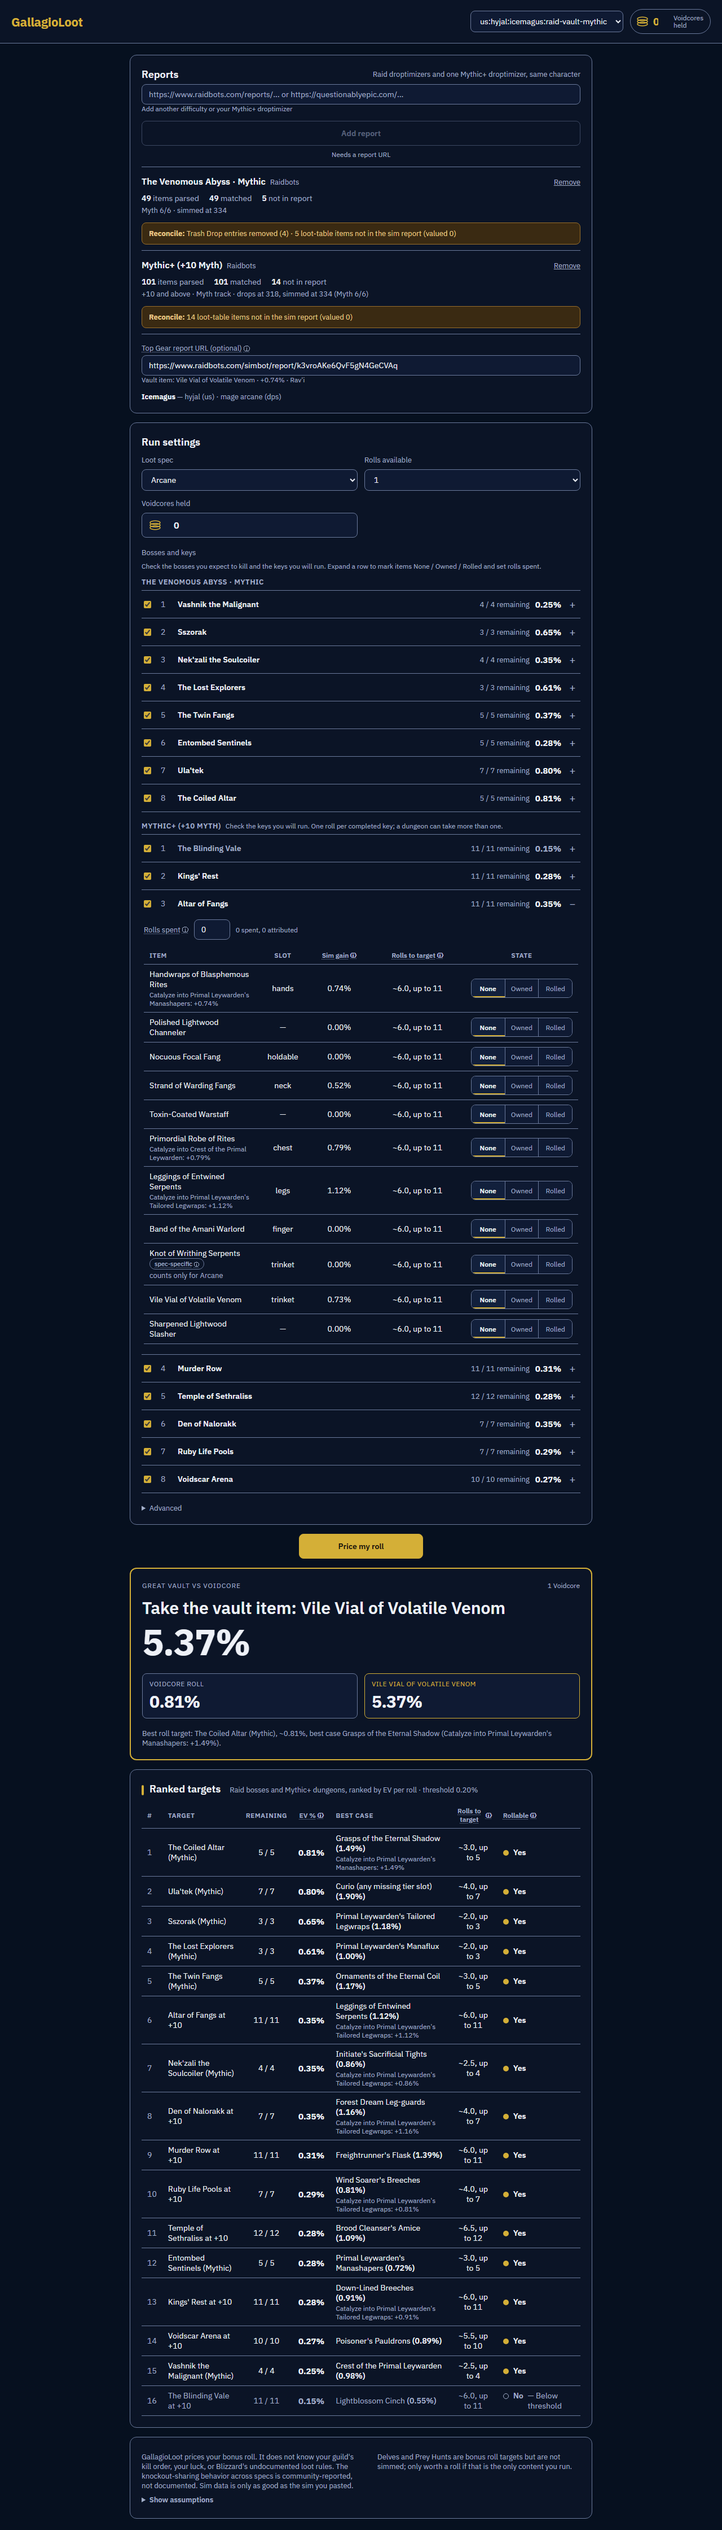
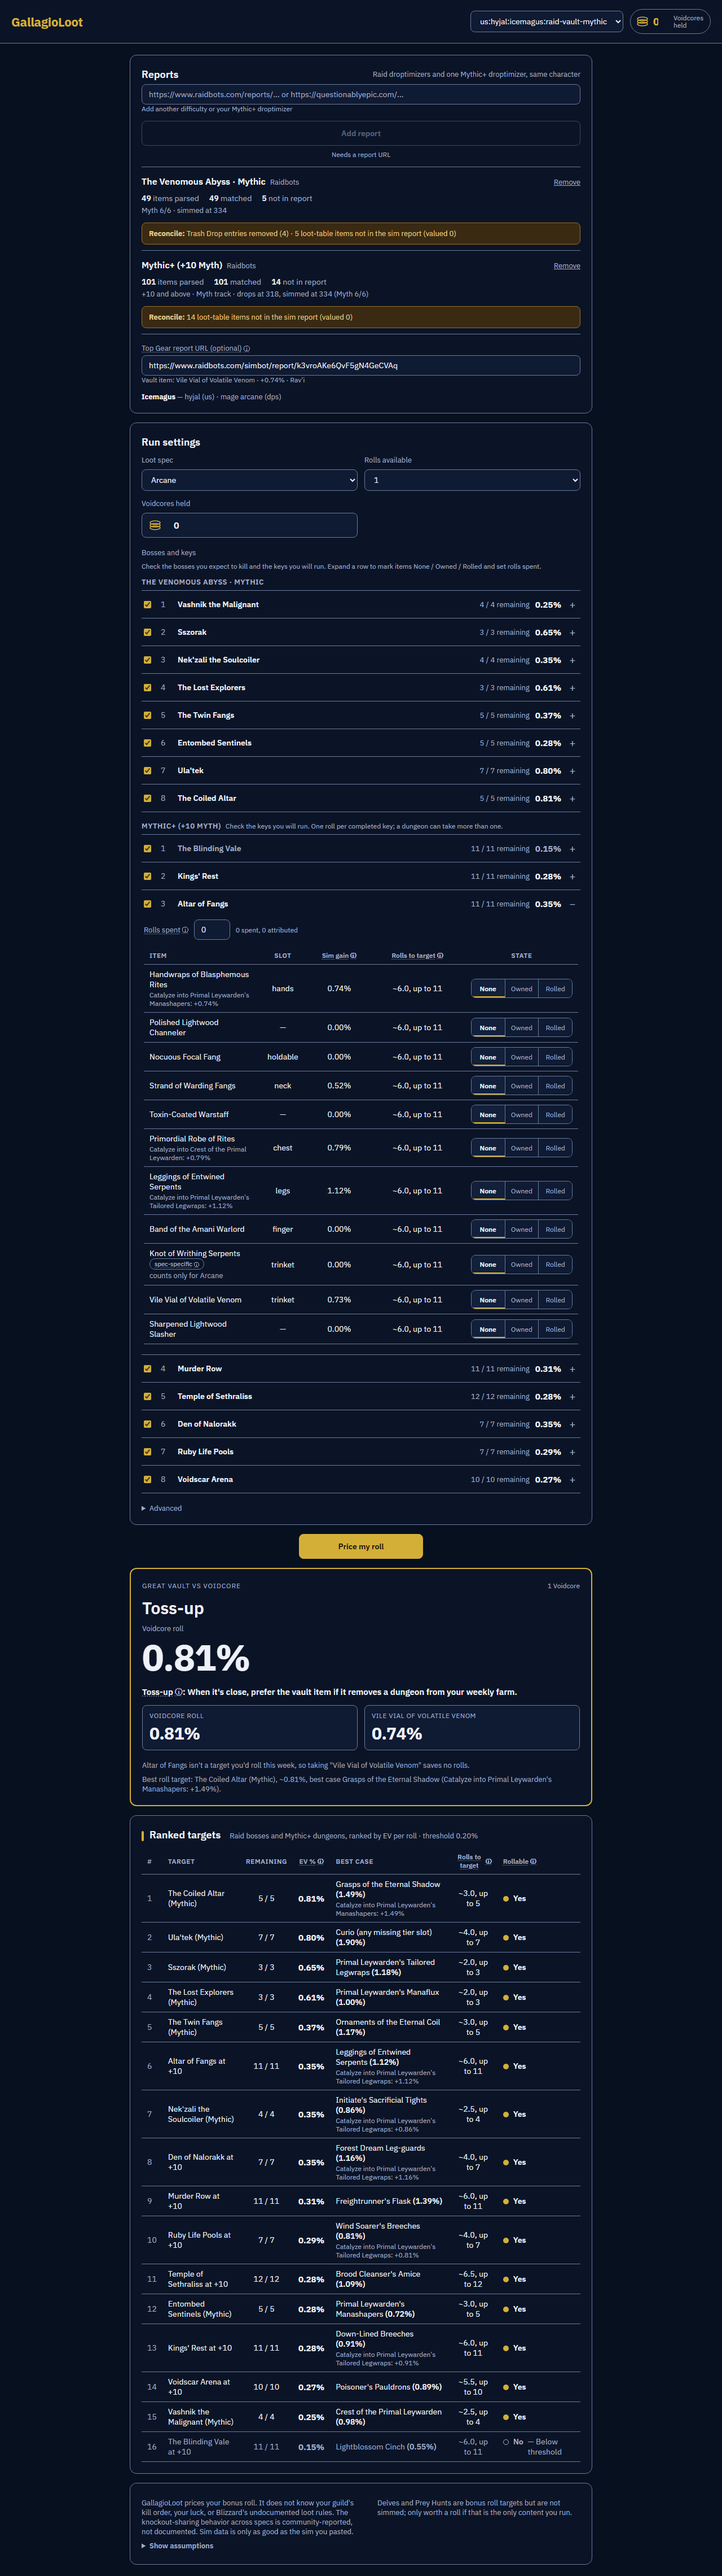
compareVault: credit saved rolls only when the vault item's target is allocated
The vault item's target (the pool it was found in) must be among the targets
recommend() spends this week's rolls on. Otherwise savedRolls = 0, the comparison
is the plain vault gain vs the Voidcore path, and VaultDecision.savedRollsNote
says why (also shown on the card). With the M+ report loaded, Altar of Fangs
ranks 6th, so Vile Vial no longer gets a 5.70-roll credit: 1 roll is a toss-up
(0.81% vs 0.74%), 2 rolls is Voidcore. Allocated targets keep the old formula.

Refreshes the pinned live-fixtures tests and the priced design screenshots.

diff --git a/test/multiReport.test.ts b/test/multiReport.test.ts
@@ -212,16 +212,34 @@ describe('report set validation', () => {
   })
 })
 
-describe('compareVault across reports', () => {
-  it('finds the vault item in a dungeon pool and takes the alternative from the best OTHER target', () => {
+describe('compareVault across reports: saved-rolls credit only for allocated targets', () => {
+  const NOTE = `Altar of Fangs isn't a target you'd roll this week, so taking "Vile Vial" saves no rolls.`
+
+  it("credits no saved rolls when the vault item's dungeon isn't a target you'd roll, and says why", () => {
     const raid = raidReport([item(2883, 'The Coiled Altar', 800)])
     const mplus = mplusReport([item(1322, 'Altar of Fangs', 740, { itemId: 273796, name: 'Vile Vial' }), item(1322, 'Altar of Fangs', 100, { itemId: 5 })])
     const evals = evalsFor([raid, mplus], SETTINGS)
     const rec = recommend(evals, SETTINGS, [raid, mplus])
+    expect(rec.allocations.map((a) => a.encounterName)).toEqual(['The Coiled Altar'])
     const vd = compareVault({ vaultItem: { name: 'Vile Vial', gainPct: 0.74, itemId: 273796 }, bossEvals: evals, recommendation: rec, settings: SETTINGS, report: raid })
-    expect(vd.savedRolls).toBeGreaterThan(0)
+    expect(vd.savedRolls).toBe(0)
+    expect(vd.vaultItemGainPct).toBe(0.74)
+    expect(vd.savedRollsNote).toBe(NOTE)
+    expect(vd.notes).toContain(NOTE)
+  })
+
+  it("keeps the existing credit formula when the vault item's dungeon IS the top allocated target", () => {
+    const raid = raidReport([item(2883, 'The Coiled Altar', 800)])
+    const mplus = mplusReport([item(1322, 'Altar of Fangs', 900, { itemId: 273796, name: 'Vile Vial' }), item(1322, 'Altar of Fangs', 900, { itemId: 5 })])
+    const evals = evalsFor([raid, mplus], SETTINGS)
+    const rec = recommend(evals, SETTINGS, [raid, mplus])
+    expect(rec.allocations.map((a) => a.encounterName)).toEqual(['Altar of Fangs'])
+    const vd = compareVault({ vaultItem: { name: 'Vile Vial', gainPct: 0.74, itemId: 273796 }, bossEvals: evals, recommendation: rec, settings: SETTINGS, report: raid })
+    // Two equal pool entries, hunt never abandoned: expected 1.5 rolls to land the Vial, each worth the best OTHER target (Coiled Altar, 0.8%).
+    expect(vd.savedRolls).toBeCloseTo(1.5, 10)
+    expect(vd.savedRollsNote).toBeUndefined()
     expect(vd.notes[0]).toMatch(/Altar of Fangs's roll pool/)
-    expect(vd.vaultItemGainPct).toBeCloseTo(0.74 + vd.savedRolls * 0.8)
+    expect(vd.vaultItemGainPct).toBeCloseTo(0.74 + 1.5 * 0.8, 10)
   })
 })
 
@@ -262,19 +280,28 @@ describe('live fixtures: raid 6PTZ7 + M+ a8URT + Top Gear vault item k3vro', () 
     ])
   })
 
-  it('1 roll: Coiled Altar, a toss-up with Ula\'tek; the Top Gear vault item now matches the Altar of Fangs pool', () => {
+  const vaultItem = { name: 'Vile Vial of Volatile Venom', gainPct: 0.7439364712473122, itemId: 273796, encounterId: 2878 }
+
+  it("1 roll: Coiled Altar, a toss-up with Ula'tek; Altar of Fangs isn't allocated, so the Vial saves no rolls (Voidcore 0.81% vs vault 0.74% = toss-up, as raid-only)", () => {
     const rec = recommend(evals, settings, [raid, mplus])
     expect(rec.allocations.map((a) => a.encounterName)).toEqual(['The Coiled Altar'])
     expect(rec.tossUp?.bosses).toEqual(['The Coiled Altar', "Ula'tek"])
-    const vd = compareVault({
-      vaultItem: { name: 'Vile Vial of Volatile Venom', gainPct: 0.7439364712473122, itemId: 273796, encounterId: 2878 },
-      bossEvals: evals,
-      recommendation: rec,
-      settings,
-      report: raid,
-    })
-    expect(vd.savedRolls).toBeCloseTo(5.7026, 3)
-    expect(vd.verdict).toBe('vault')
-    expect(vd.vaultItemGainPct).toBeCloseTo(0.7439 + 5.7026 * 0.8117, 2)
+    const vd = compareVault({ vaultItem, bossEvals: evals, recommendation: rec, settings, report: raid })
+    expect(vd.savedRolls).toBe(0)
+    expect(vd.savedRollsNote).toBe(`Altar of Fangs isn't a target you'd roll this week, so taking "Vile Vial of Volatile Venom" saves no rolls.`)
+    expect(vd.voidcoreGainPct).toBeCloseTo(0.8117, 3)
+    expect(vd.vaultItemGainPct).toBeCloseTo(0.7439, 4)
+    expect(vd.verdict).toBe('toss-up')
+  })
+
+  it("2 rolls: Coiled Altar + Ula'tek, still no saved rolls for the Vial -> Voidcore (1.61% vs 0.74%)", () => {
+    const twoRolls: Settings = { ...settings, rollsAvailable: 2 }
+    const rec = recommend(evals, twoRolls, [raid, mplus])
+    expect(rec.allocations.map((a) => a.encounterName)).toEqual(['The Coiled Altar', "Ula'tek"])
+    const vd = compareVault({ vaultItem, bossEvals: evals, recommendation: rec, settings: twoRolls, report: raid })
+    expect(vd.savedRolls).toBe(0)
+    expect(vd.voidcoreGainPct).toBeCloseTo(1.6098, 3)
+    expect(vd.vaultItemGainPct).toBeCloseTo(0.7439, 4)
+    expect(vd.verdict).toBe('voidcore')
   })
 })

diff --git a/test/vault.test.ts b/test/vault.test.ts
@@ -137,9 +137,17 @@ function makeReport(overrides: Partial<NormalizedReport> = {}): NormalizedReport
   }
 }
 
-function makeRecommendation(totalExpectedGainPct: number): Recommendation {
+/** `allocated`: the boss evals `recommend()` would spend this week's rolls on (compareVault only credits saved rolls for those). */
+function makeRecommendation(totalExpectedGainPct: number, allocated: BossEval[] = []): Recommendation {
   return {
-    allocations: [],
+    allocations: allocated.map((b) => ({
+      encounterId: b.encounterId,
+      encounterName: b.encounterName,
+      targetKey: b.targetKey,
+      rolls: 1,
+      expectedGain: b.ev,
+      expectedGainPct: b.evPct,
+    })),
     totalExpectedGainPct,
     fallback: null,
     assumptions: [],
@@ -203,7 +211,7 @@ describe('compareVault', () => {
     expect(decision.explanation).toContain('Thalassian Tokens of Merit')
   })
 
-  it('computes savedRolls via rollsToTarget when the vault item matches a PoolEntry by itemId, capped at the pool size', () => {
+  it('computes savedRolls via rollsToTarget when the vault item matches a PoolEntry by itemId in an allocated target, capped at the pool size', () => {
     const targetEntry = makeEntry('item:999', 4000, { itemIds: [999] })
     const otherEntry = makeEntry('item:1', 1000, { itemIds: [1] })
     const vaultBoss = makeBoss(2888, "Nek'zali the Soulcoiler", [targetEntry, otherEntry], 0.2)
@@ -212,7 +220,7 @@ describe('compareVault', () => {
     const decision = compareVault({
       vaultItem: { name: 'Target Item', gainPct: 3.0, itemId: 999 },
       bossEvals: [vaultBoss, altBoss],
-      recommendation: makeRecommendation(6.0),
+      recommendation: makeRecommendation(6.0, [vaultBoss]),
       settings: SETTINGS,
       report: makeReport(),
     })
@@ -223,6 +231,26 @@ describe('compareVault', () => {
     expect(decision.savedRolls).toBeCloseTo(expectedSavedRolls, 10)
     // altRollEvPct excludes the vault item's own boss (2888) -- picks 2887's evPct (6%).
     expect(decision.vaultItemGainPct).toBeCloseTo(3.0 + expectedSavedRolls * 6.0, 10)
+  })
+
+  it("credits no saved rolls when the vault item's target isn't one the recommendation allocates, and says why", () => {
+    const targetEntry = makeEntry('item:999', 4000, { itemIds: [999] })
+    const otherEntry = makeEntry('item:1', 1000, { itemIds: [1] })
+    const vaultBoss = makeBoss(2888, "Nek'zali the Soulcoiler", [targetEntry, otherEntry], 0.2)
+    const altBoss = makeBoss(2887, 'The Twin Fangs', [makeEntry('item:2', 6000, { itemIds: [2] })], 0.2)
+
+    const decision = compareVault({
+      vaultItem: { name: 'Target Item', gainPct: 3.0, itemId: 999 },
+      bossEvals: [vaultBoss, altBoss],
+      recommendation: makeRecommendation(6.0, [altBoss]),
+      settings: SETTINGS,
+      report: makeReport(),
+    })
+
+    expect(decision.savedRolls).toBe(0)
+    expect(decision.vaultItemGainPct).toBe(3.0)
+    expect(decision.savedRollsNote).toBe(`Nek'zali the Soulcoiler isn't a target you'd roll this week, so taking "Target Item" saves no rolls.`)
+    expect(decision.notes).toContain(decision.savedRollsNote)
   })
 
   it('warns and assumes 0 saved rolls when the vault item pool cannot be identified', () => {

diff --git a/src/core/vault.ts b/src/core/vault.ts
@@ -97,6 +97,11 @@ function findVaultPool(vaultItem: VaultItemInput, bossEvals: BossEval[]): { boss
   return null
 }
 
+/** Why a vault item credits no saved rolls when its loot source isn't one of this week's allocated roll targets. */
+export function noSavedRollsNote(itemName: string, targetName: string): string {
+  return `${targetName} isn't a target you'd roll this week, so taking "${itemName}" saves no rolls.`
+}
+
 /**
  * Compares the Great Vault's two options for the week: take a specific vault item
  * outright, or take the Nebulous Voidcore and spend `settings.rollsAvailable` bonus
@@ -104,6 +109,11 @@ function findVaultPool(vaultItem: VaultItemInput, bossEvals: BossEval[]): { boss
  * difficulties + Mythic+): the vault item is matched against every target's pool, and the
  * alternative roll is the best OTHER target across all of them. `report` only supplies a
  * fallback baseline for evals built without one.
+ *
+ * The saved-rolls credit only applies when the vault item's target is among the targets
+ * `recommendation` allocates rolls to this week: you can't save rolls you would never have
+ * spent hunting there. Otherwise savedRolls is 0 and the comparison is the plain vault item
+ * gain against the Voidcore path (`savedRollsNote` says why).
  */
 export function compareVault(input: {
   vaultItem: VaultItemInput | null
@@ -135,10 +145,17 @@ export function compareVault(input: {
   // OTHER boss (altRollEvPct below already excludes X's own boss, so X's post-vault dud state
   // doesn't feed back into this figure).
   let savedRolls = 0
+  let savedRollsNote: string | undefined
   if (found) {
-    const remainingPool = found.boss.pool.filter((p) => !p.knockedOut)
-    const { expectedTruncated } = rollsToTarget(remainingPool, found.target.key, thresholdValue)
-    savedRolls = Math.min(expectedTruncated, remainingPool.length)
+    const allocated = recommendation.allocations.some((a) => evalKey(a) === evalKey(found.boss))
+    if (allocated) {
+      const remainingPool = found.boss.pool.filter((p) => !p.knockedOut)
+      const { expectedTruncated } = rollsToTarget(remainingPool, found.target.key, thresholdValue)
+      savedRolls = Math.min(expectedTruncated, remainingPool.length)
+    } else {
+      savedRollsNote = noSavedRollsNote(vaultItem!.name, found.boss.encounterName)
+      notes.push(savedRollsNote)
+    }
     notes.push(`Taking "${vaultItem!.name}" leaves it in ${found.boss.encounterName}'s roll pool as a value-0 dud (roll-only knockout).`)
   }
 
@@ -177,7 +194,7 @@ export function compareVault(input: {
     }
   }
 
-  return { voidcoreGainPct, vaultItemGainPct, savedRolls, verdict, explanation, notes }
+  return { voidcoreGainPct, vaultItemGainPct, savedRolls, savedRollsNote, verdict, explanation, notes }
 }
 
 export type TopGearVaultItem = VaultItemInput & {

diff --git a/web/test/cardData.targets.test.ts b/web/test/cardData.targets.test.ts
@@ -71,6 +71,17 @@ describe('card target phrasing', () => {
     expect(card.headline).toBe('Take the Voidcore. Run Altar of Fangs at +10 and roll.')
   })
 
+  it('carries the no-saved-rolls explanation through to vaultCompare', () => {
+    const note = `Altar of Fangs isn't a target you'd roll this week, so taking "Vial" saves no rolls.`
+    const card = buildCardData({
+      recommendation: rec({ allocations: [{ encounterId: 2883, encounterName: 'The Coiled Altar', targetKey: 'raid-vault-mythic:2883', kind: 'raid', difficultyLabel: 'Mythic', rolls: 1, expectedGain: 812, expectedGainPct: 0.812 }] }),
+      bossEvals: [makeEval({})],
+      vaultDecision: { voidcoreGainPct: 0.81, vaultItemGainPct: 0.74, savedRolls: 0, savedRollsNote: note, verdict: 'toss-up', explanation: '', notes: [note] },
+      vaultItemName: 'Vial',
+    })
+    expect(card.vaultCompare?.savedRollsNote).toBe(note)
+  })
+
   it('toss-up sides resolve by target key: the same boss on two difficulties stays distinguishable', () => {
     const mythic = makeEval({})
     const heroic = makeEval({ targetKey: 'raid-vault-heroic:2883', difficultyLabel: 'Heroic', evPct: 0.8 })

diff --git a/web/src/lib/cardData.ts b/web/src/lib/cardData.ts
@@ -56,7 +56,7 @@ export type CardData = {
    * compare unlike things, so it's omitted there.
    */
   secondBest?: { name: string; pct: number }
-  vaultCompare?: { voidcorePct: number; vaultPct: number; vaultItemName: string }
+  vaultCompare?: { voidcorePct: number; vaultPct: number; vaultItemName: string; savedRollsNote?: string }
   tossUp: boolean
   tossUpNote?: string
   message?: string
@@ -182,6 +182,7 @@ export function buildCardData(params: {
     voidcorePct: vaultDecision.voidcoreGainPct,
     vaultPct: vaultDecision.vaultItemGainPct,
     vaultItemName: vaultItemName ?? 'the vault item',
+    savedRollsNote: vaultDecision.savedRollsNote,
   }
 
   if (vaultDecision.verdict === 'tokens') {

diff --git a/web/src/components/RecommendationCard.tsx b/web/src/components/RecommendationCard.tsx
@@ -88,6 +88,8 @@ export function RecommendationCard({ card, onPrimaryAction, stale }: { card: Car
         </div>
       )}
 
+      {card.vaultCompare?.savedRollsNote && <div className="rec-card__note">{card.vaultCompare.savedRollsNote}</div>}
+
       {card.vaultCompare && card.bestRoll && (
         <div className="rec-card__note">
           Best roll target: {card.bestRoll.name}, ~{card.bestRoll.pct.toFixed(2)}%

diff --git a/src/core/types.ts b/src/core/types.ts
@@ -240,6 +240,8 @@ export type VaultDecision = {
   voidcoreGainPct: number
   vaultItemGainPct: number
   savedRolls: number
+  /** Set when the vault item was found in a loot pool but that target isn't one of this week's allocated rolls, so no saved-rolls credit was given. */
+  savedRollsNote?: string
   verdict: 'vault' | 'voidcore' | 'tokens' | 'toss-up'
   explanation: string
   notes: string[]

diff --git a/README.md b/README.md
@@ -388,7 +388,7 @@ The player faces a Great Vault choice each week: take a specific vault item outr
 - **`compareVault({ vaultItem, bossEvals, recommendation, settings, report })`**: returns a `VaultDecision`.
   - **Voidcore option**: `voidcoreGainPct = recommendation.totalExpectedGainPct` (for `settings.rollsAvailable` rolls).
   - With several reports loaded, `bossEvals` spans all of them: the vault item is matched against every target's pool (raid and M+), the threshold uses the matched target's own baseline, and the alternative roll excludes the matched target by `targetKey`.
-  - **Vault item option**: `vaultItemGainPct = vaultItem.gainPct + savedRolls × altRollEvPct`. `savedRolls` is the `expectedTruncated` rolls to hit that item via bonus roll, if its loot pool is identifiable — matched by `itemId` against a `PoolEntry` across all bosses first, falling back to `encounterId` against a whole `BossEval` (using its `bestCase` entry as the target, since the vault item may represent a whole dungeon/boss's reward rather than one specific item) — capped at the pool's remaining count; if no pool is identifiable, `savedRolls = 0` with a note. `altRollEvPct` is the `evPct` of the best rollable boss *other than* the vault item's own pool (`0` if none).
+  - **Vault item option**: `vaultItemGainPct = vaultItem.gainPct + savedRolls × altRollEvPct`. `savedRolls` is the `expectedTruncated` rolls to hit that item via bonus roll, if its loot pool is identifiable — matched by `itemId` against a `PoolEntry` across all bosses first, falling back to `encounterId` against a whole `BossEval` (using its `bestCase` entry as the target, since the vault item may represent a whole dungeon/boss's reward rather than one specific item) — capped at the pool's remaining count; if no pool is identifiable, `savedRolls = 0` with a note. **The credit only applies when the vault item's target is among the targets `recommendation.allocations` spends this week's rolls on** (by target key): you can't save rolls you would never have spent hunting there. Otherwise `savedRolls = 0`, the comparison is the plain vault gain vs the Voidcore path, and `VaultDecision.savedRollsNote` (also in `notes`, shown on the card) says why, e.g. "Altar of Fangs isn't a target you'd roll this week, so taking \"Vile Vial of Volatile Venom\" saves no rolls." With the M+ report loaded, Altar of Fangs ranks 6th, so the Vial no longer earns a 5.7-roll credit (0.81% vs 0.74% is a toss-up at 1 roll, Voidcore at 2). `altRollEvPct` is the `evPct` of the best rollable boss *other than* the vault item's own pool (`0` if none).
   - **Verdict**: `'tokens'` when neither option clears `thresholdPct`; else `'toss-up'` when `|voidcoreGainPct − vaultItemGainPct| < max(0.1, 10% of the larger)` (with a note to prefer the vault item on a toss-up if it removes a dungeon from the weekly farm); else `'vault'` or `'voidcore'`, whichever is larger.
   - Returns both option values, `savedRolls`, the verdict, a one-sentence `explanation`, and any `notes` (warnings, the toss-up tip).
 
